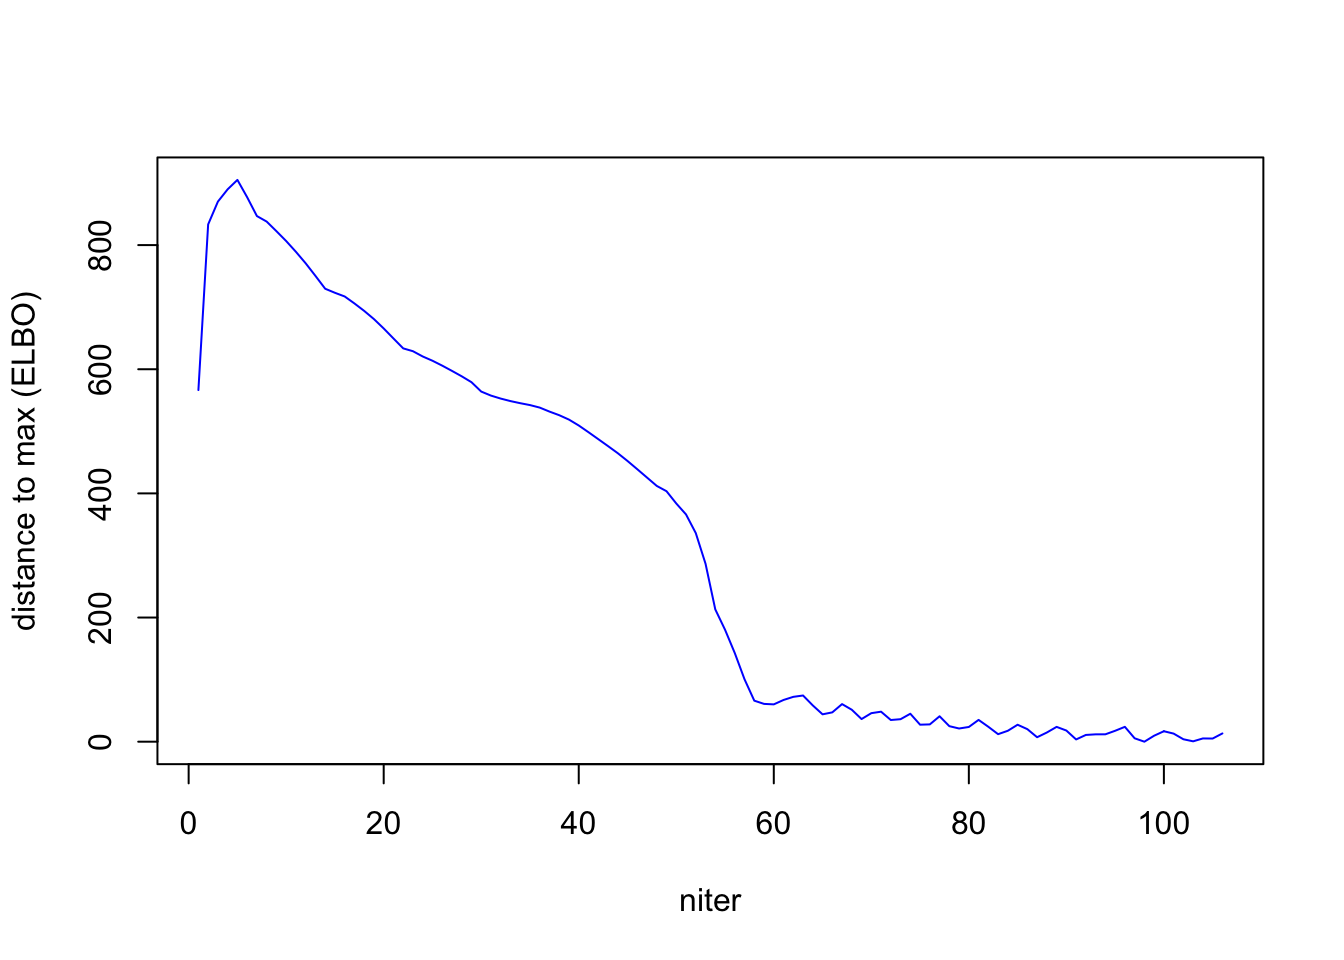
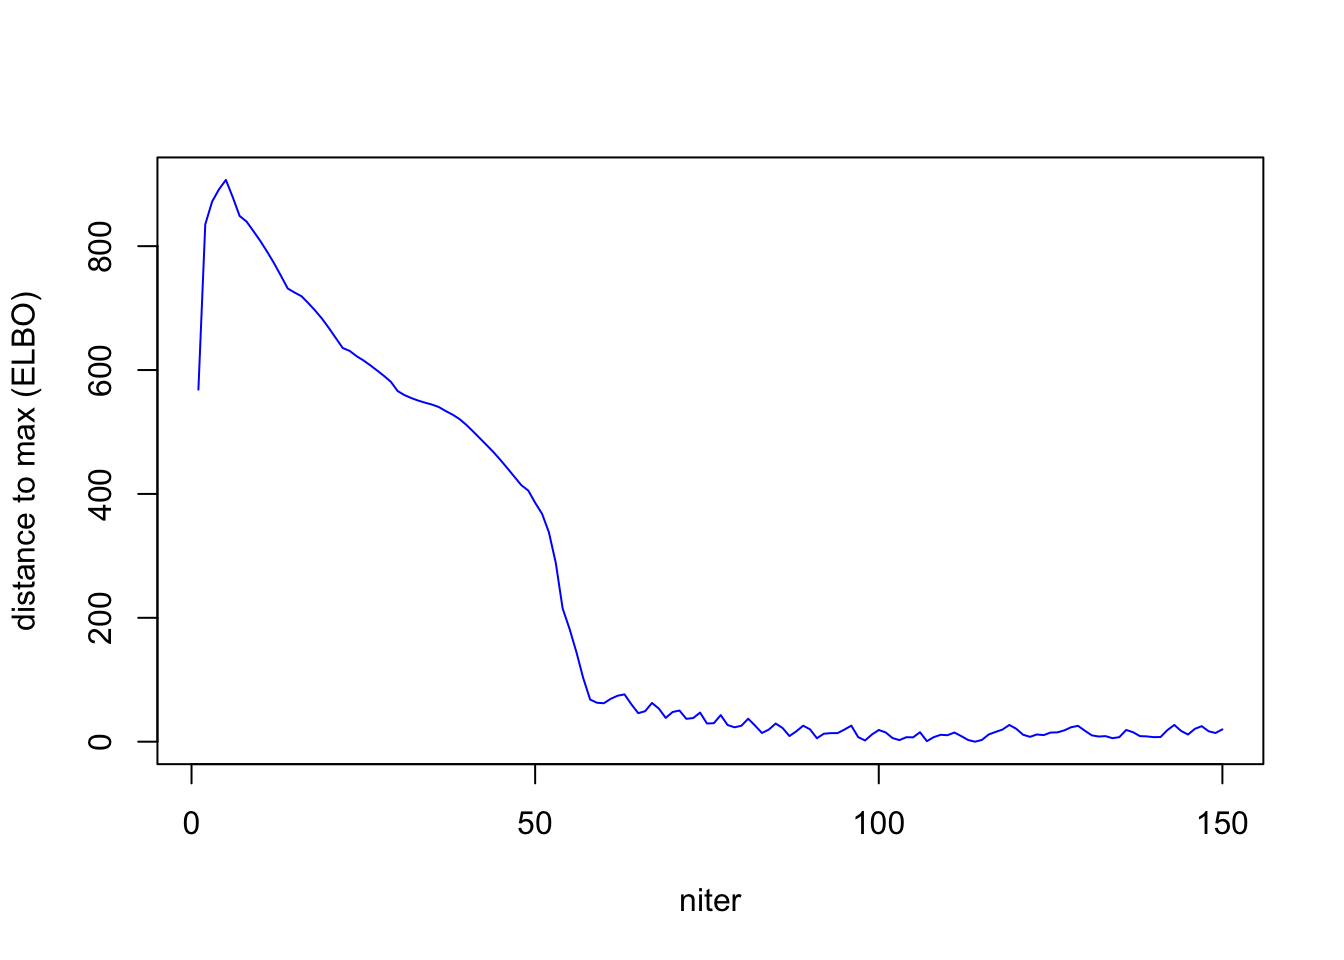
Build site.

diff --git a/docs/Issues_ebpmf_rankk.html b/docs/Issues_ebpmf_rankk.html
@@ -536,10 +536,10 @@ This reproducible <a href="http://rmarkdown.rstudio.com">R Markdown</a> analysis
 <div class="panel panel-default">
 <div class="panel-heading">
 <p class="panel-title">
-<a data-toggle="collapse" data-parent="#workflowr-checks" href="#strongRepositoryversionstrongahrefhttpsgithubcomzihao12ebpmfdemotreebd748763ff1cb402197c415fc8d8091d13fde0eftargetblankbd74876a"> <span class="glyphicon glyphicon-ok text-success" aria-hidden="true"></span> <strong>Repository version:</strong> <a href="https://github.com/zihao12/ebpmf_demo/tree/bd748763ff1cb402197c415fc8d8091d13fde0ef" target="_blank">bd74876</a> </a>
+<a data-toggle="collapse" data-parent="#workflowr-checks" href="#strongRepositoryversionstrongahrefhttpsgithubcomzihao12ebpmfdemotree5d1ad7920fe49020529f8a6d7dd8a43754e18a98targetblank5d1ad79a"> <span class="glyphicon glyphicon-ok text-success" aria-hidden="true"></span> <strong>Repository version:</strong> <a href="https://github.com/zihao12/ebpmf_demo/tree/5d1ad7920fe49020529f8a6d7dd8a43754e18a98" target="_blank">5d1ad79</a> </a>
 </p>
 </div>
[2 lines of base64/hex data omitted]
 <div class="panel-body">
 <p>
 Great! You are using Git for version control. Tracking code development and connecting the code version to the results is critical for reproducibility. The version displayed above was the version of the Git repository at the time these results were generated. <br><br> Note that you need to be careful to ensure that all relevant files for the analysis have been committed to Git prior to generating the results (you can use <code>wflow_publish</code> or <code>wflow_git_commit</code>). workflowr only checks the R Markdown file, but you know if there are other scripts or data files that it depends on. Below is the status of the Git repository when the results were generated:
@@ -601,6 +601,40 @@ Message
 </tr>
 </thead>
 <tbody>
+<tr>
+<td>
+Rmd
+</td>
+<td>
+<a href="https://github.com/zihao12/ebpmf_demo/blob/5d1ad7920fe49020529f8a6d7dd8a43754e18a98/analysis/Issues_ebpmf_rankk.Rmd" target="_blank">5d1ad79</a>
+</td>
+<td>
+zihao12
+</td>
+<td>
+2019-10-06
+</td>
+<td>
+fix issue 2
+</td>
+</tr>
+<tr>
+<td>
+html
+</td>
+<td>
+<a href="https://rawcdn.githack.com/zihao12/ebpmf_demo/42a291a6e80a160ddf21ccc254f7fea713f52f66/docs/Issues_ebpmf_rankk.html" target="_blank">42a291a</a>
+</td>
+<td>
+zihao12
+</td>
+<td>
+2019-10-06
+</td>
+<td>
+Build site.
+</td>
+</tr>
 <tr>
 <td>
 Rmd
@@ -738,7 +772,7 @@ issues encountered in ebpmf
 <h2>Issues:</h2>
 <ul>
 <li><p>ELBO does not strictly increase. I think, if we can really solve each <code>ebpm</code> problem optimally within that prior family <span class="math inline">\(\mathcal{G}\)</span>, we should mamke ELBO nondecreasing (which is why coordinate ascend works?). But since in practice, we only optimize it over a subset of <span class="math inline">\(\mathcal{G}\)</span> (based on our chosen grid), we may not solve each subproblem well.  </p></li>
-<li><p>Numerical issue when computing <code>L</code>: at iteration 107, I get <code>Error in verify.likelihood.matrix(L) : Input argument &quot;L&quot; should be a numeric matrix with &gt;= 2 columns, &gt;= 1 rows, all its entries should be non-negative, finite and not NA, and some entries should be positive</code>. It happens in <code>ebpm</code> when computing <span class="math inline">\(l_{ik} = log \ NB(x_i; a_k, \frac{b_k}{b_k + s})\)</span>. Only the first column of l (corresponding to the smallest chosen mean (biggest rate)) are all -inf. Why it happens? This is how we choose the grid</p>
+<li><p>[solved] Numerical issue when computing <code>L</code>: at iteration 107, I get <code>Error in verify.likelihood.matrix(L) : Input argument &quot;L&quot; should be a numeric matrix with &gt;= 2 columns, &gt;= 1 rows, all its entries should be non-negative, finite and not NA, and some entries should be positive</code>. It happens in <code>ebpm</code> when computing <span class="math inline">\(l_{ik} = log \ NB(x_i; a_k, \frac{b_k}{b_k + s})\)</span>. Only the first column of l (corresponding to the smallest chosen mean (biggest rate)) are all -inf. Why it happens? This is how we choose the grid</p>
 <pre><code>xprime = x
 xprime[x == 0] = xprime[x == 0] + 1
 mu_grid_min =  0.05*min(xprime/s)
@@ -747,12 +781,10 @@ mu_grid_max = 2*max(x/s)</code></pre>
 <pre><code>x = 0; prob = 1 - 1e-20;
 x*log(1-prob)
 ## [1] NaN </code></pre>
-<p>I use this for my implementation of the “continous” negative binomial loglikelihood.</p></li>
+<p>I use this for my implementation of the “continous” negative binomial loglikelihood. I solve it (probably not the best way) by setting that term to 0 “manually”.</p></li>
 </ul>
-<p>Below I reproduce issue one.</p>
-</div>
-<div id="experiments" class="section level2">
-<h2>Experiments</h2>
+<p>I have solved issue 2 and reproduce issue 1 here.<br />
+## Experiments</p>
 <pre class="r"><code>library(NNLM)
 library(gtools)
 
@@ -800,11 +832,11 @@ scale_b = 5
 sim = simulate_pm(n, p, dl, df, K, scale_b = scale_b)</code></pre>
 <p>Run <code>ebpmf</code> and plot ELBO.</p>
 <pre class="r"><code>## ebpmf
-out = ebpmf::ebpmf_exponential_mixture_experiment(sim$X, K, maxiter.out = 106, verbose = F)</code></pre>
+out = ebpmf::ebpmf_exponential_mixture_experiment(sim$X, K, maxiter.out = 150, verbose = F)</code></pre>
 <pre><code>[1] &quot;summary of  runtime:&quot;
-[1] &quot;init           : 0.031000&quot;
-[1] &quot;Ez     per time: 0.001344&quot;
-[1] &quot;rank1  per time: 0.017637&quot;</code></pre>
+[1] &quot;init           : 0.029000&quot;
+[1] &quot;Ez     per time: 0.001277&quot;
+[1] &quot;rank1  per time: 0.025443&quot;</code></pre>
 <pre class="r"><code>elbo_ebpmf= out$ELBO
 out_ebpmf = out$qg
 distance_max =  max(elbo_ebpmf) - elbo_ebpmf
